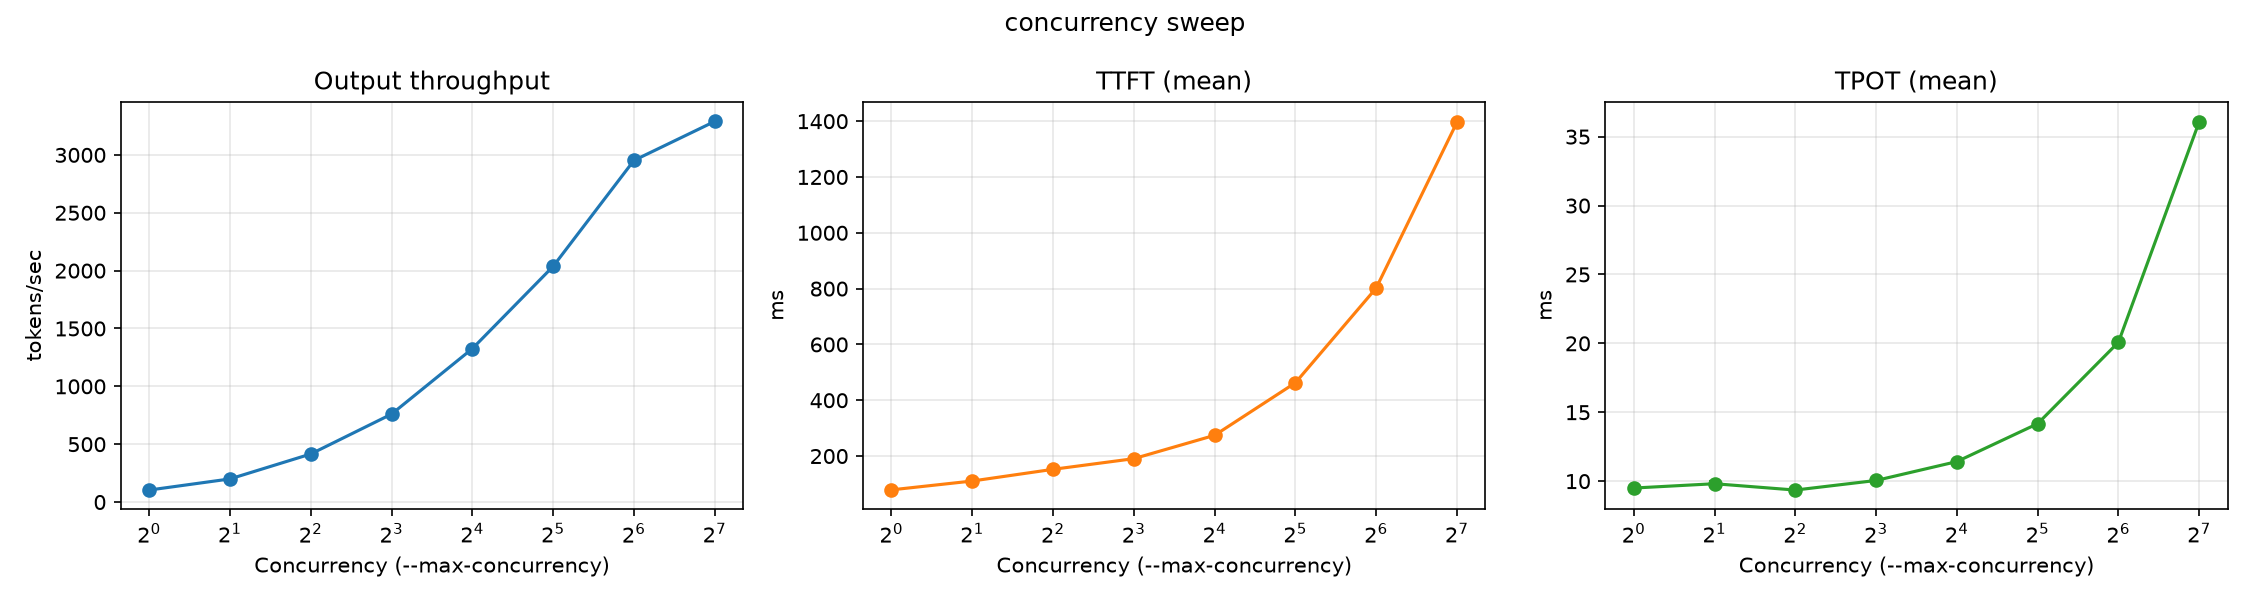
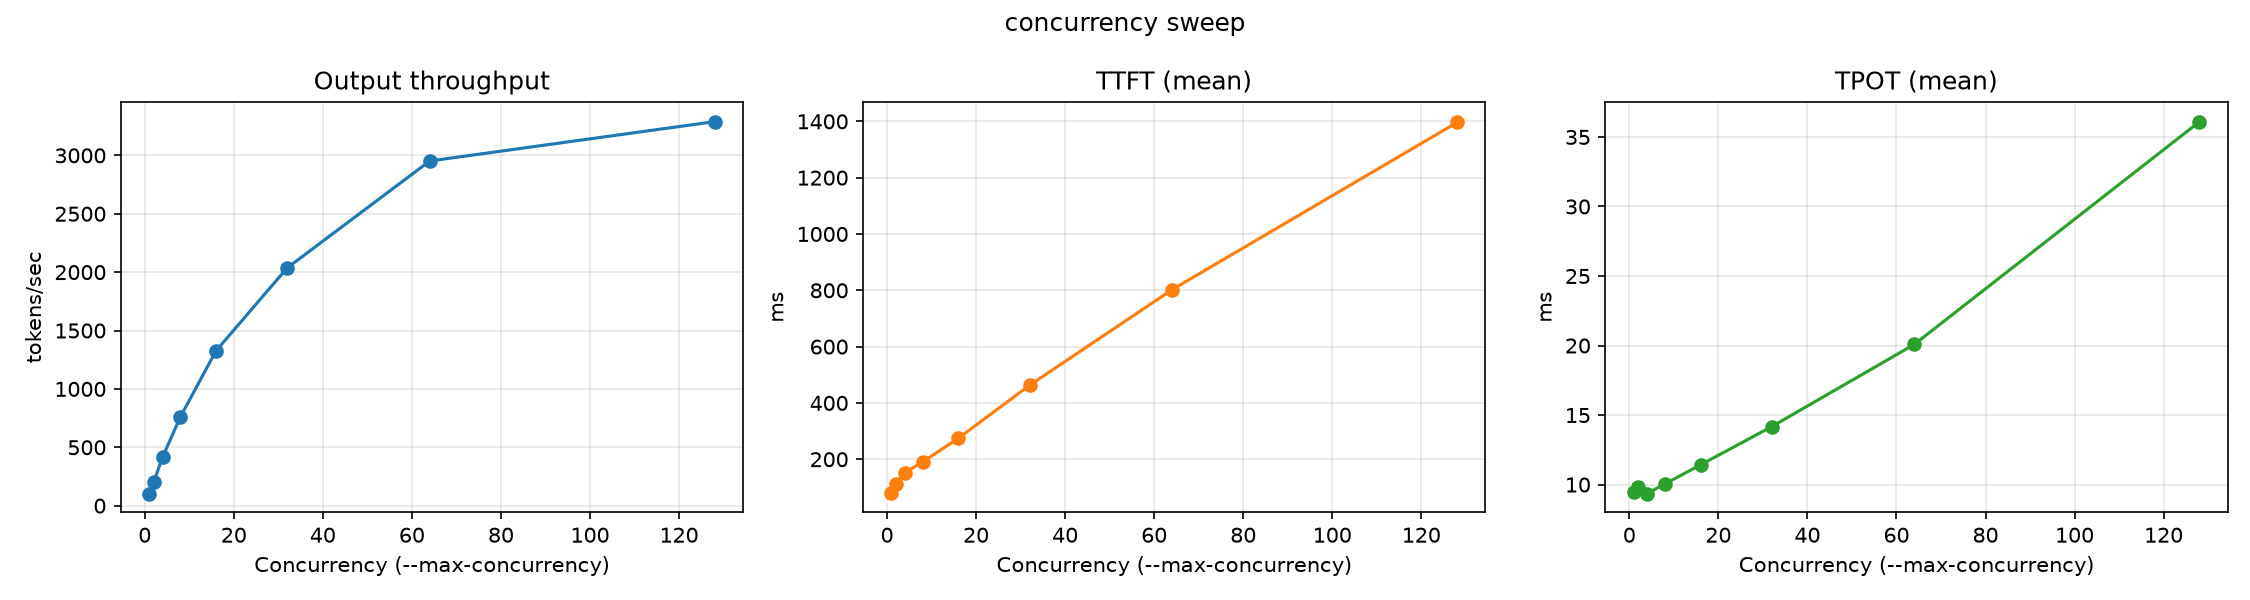
updated sweep scripts, concurrency plot x_scale, added docs dir

diff --git a/benchmarks/analysis/plots.py b/benchmarks/analysis/plots.py
@@ -55,7 +55,8 @@ def plot_sweep(df: pd.DataFrame, sweep: str):
         ax.set_xlabel(AXIS_LABELS[sweep])
         ax.grid(alpha=0.3)
         if sweep in ("concurrency",):
-            ax.set_xscale("log", base=2)
+            # ax.set_xscale("log", base=2)
+            ax.set_xscale("linear")
 
     fig.tight_layout()
     OUTDIR.mkdir(parents=True, exist_ok=True)
@@ -66,6 +67,6 @@ def plot_sweep(df: pd.DataFrame, sweep: str):
 
 
 if __name__ == "__main__":
-    df = pd.read_csv("benchmarks/analysis/combined_summary.csv")
+    df = pd.read_csv("combined_summary.csv")
     for sweep in ["concurrency", "input_length", "output_length"]:
         plot_sweep(df, sweep)
